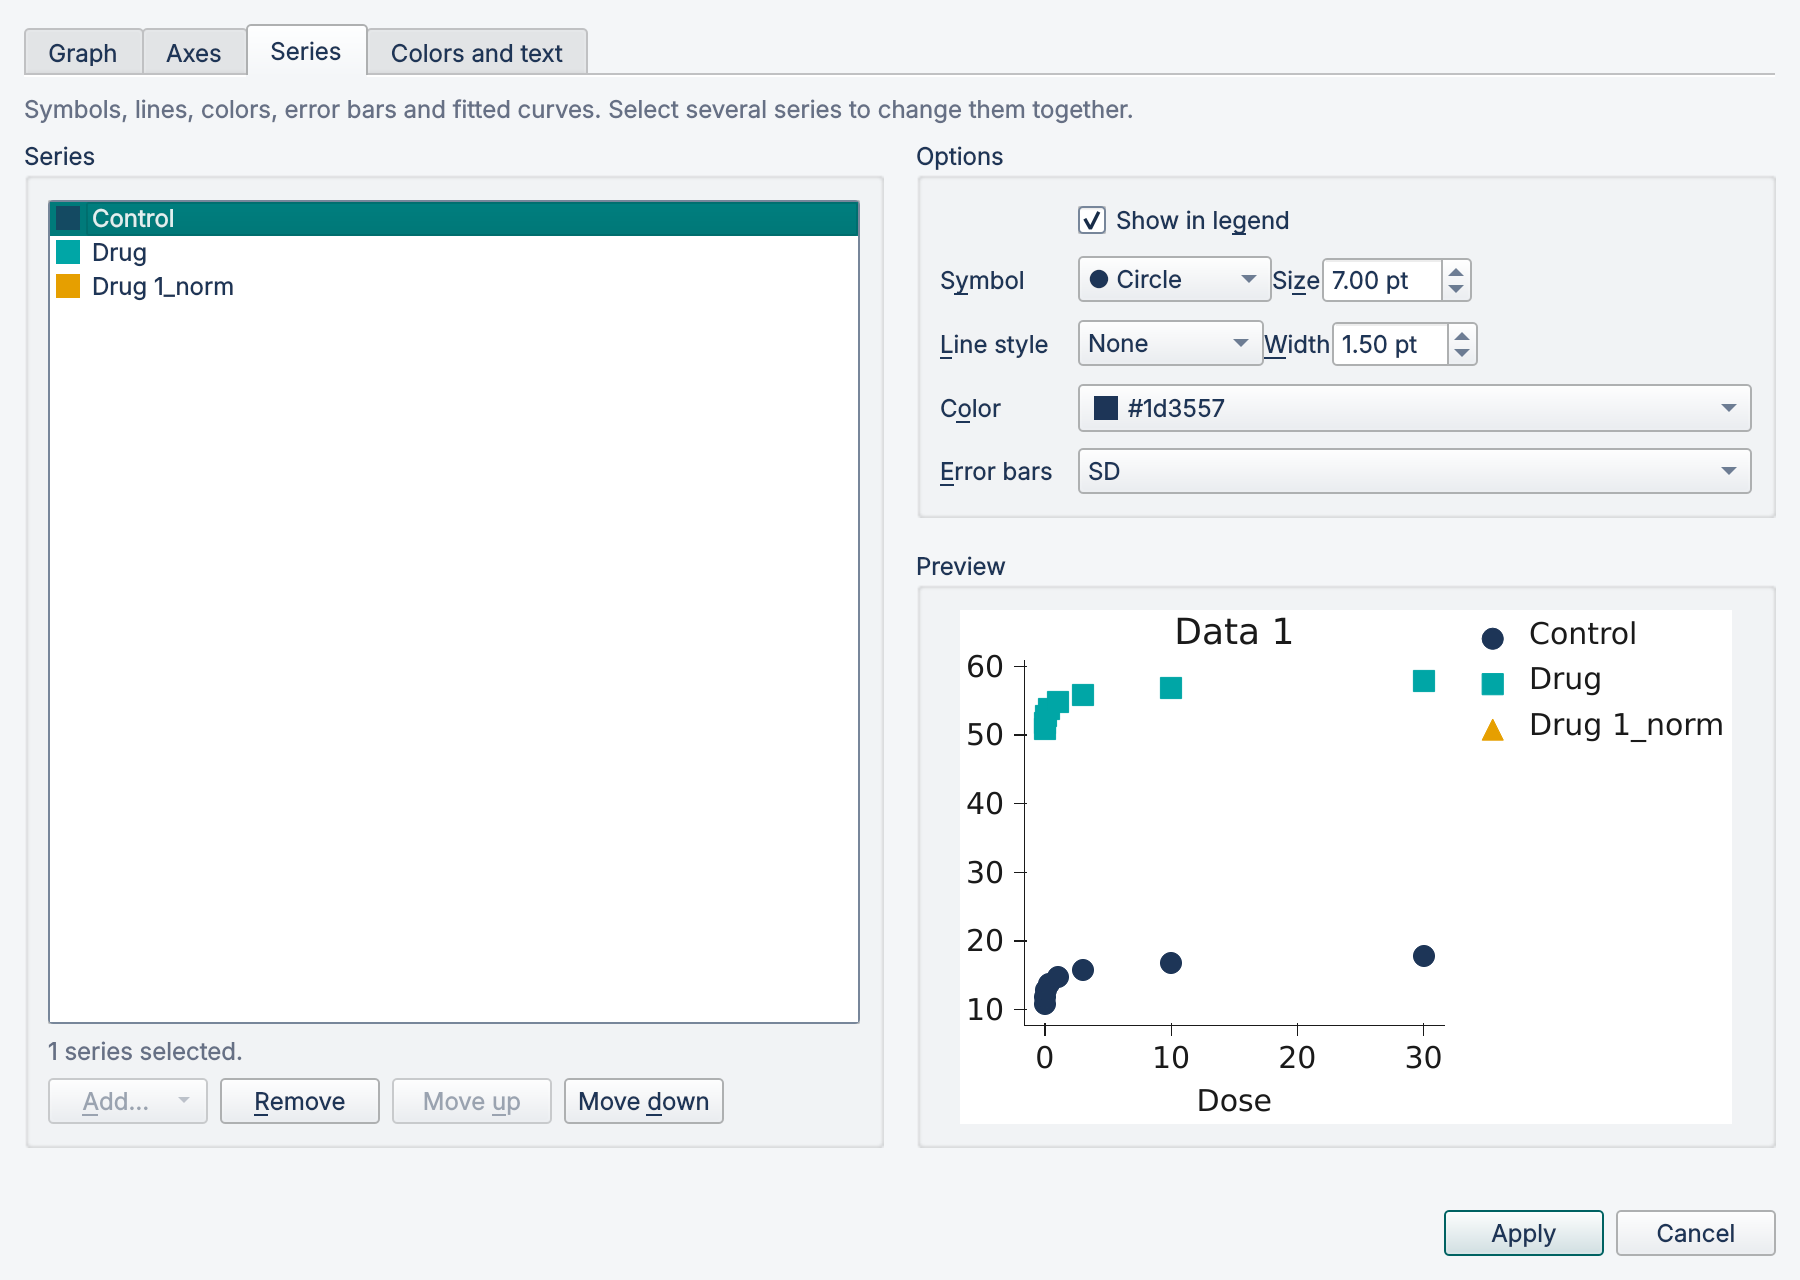
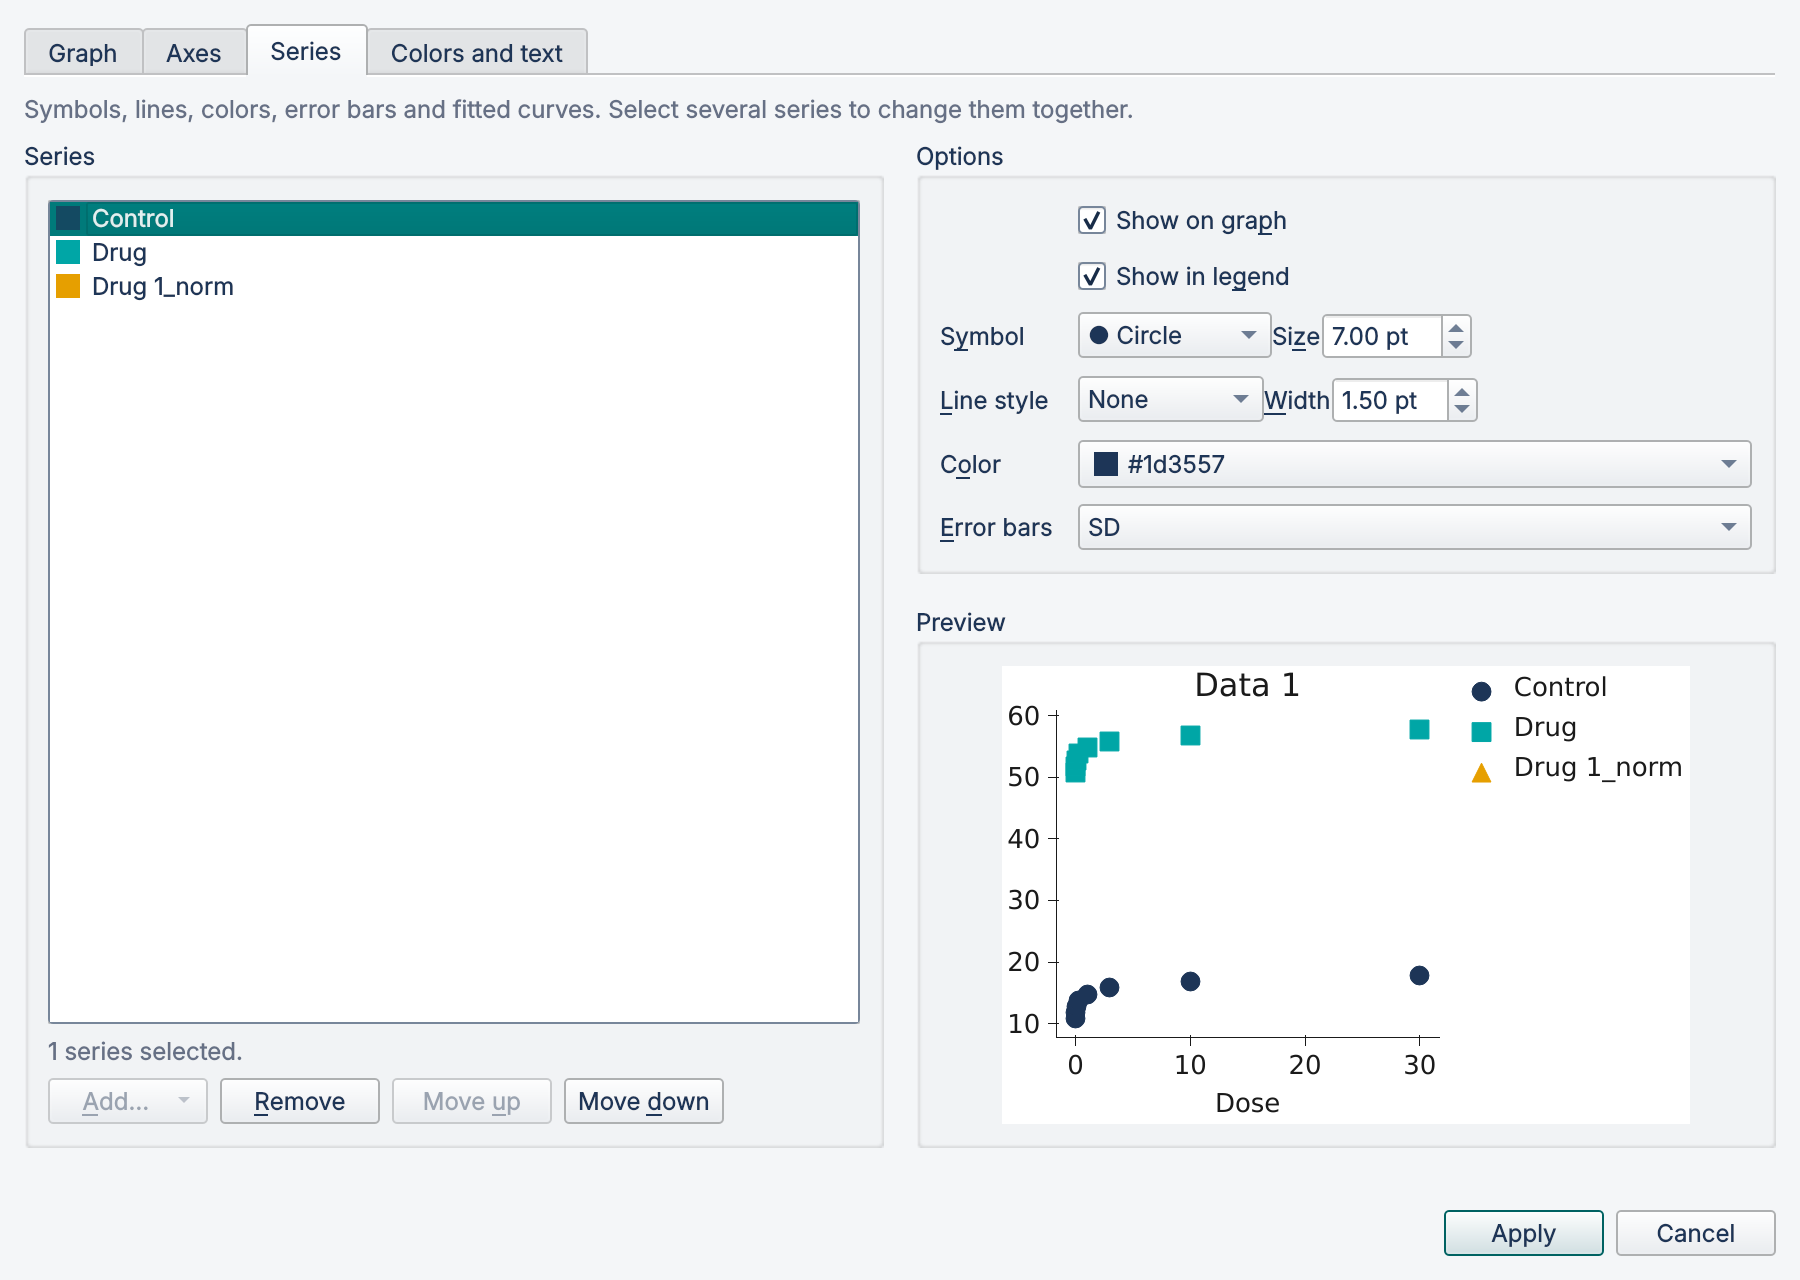
Format dialog: Show on graph, the keyboard way to hide a series
Hiding a series of an XY or survival graph was a legend click only. The
Series section now has Show on graph, which makes the same change as
the click and shows Mixed for a selection of shown and hidden series.

Claude-Session: https://claude.ai/code/session_01CFpmBV5QWJY4esQ1bkC35f

diff --git a/src/curvis/ui/format_dialog.py b/src/curvis/ui/format_dialog.py
@@ -648,6 +648,12 @@ class FormatDialog(QDialog):
         layout = QVBoxLayout(page)
         layout.setContentsMargins(0, 0, 0, 0)
         form = form_layout()
+        self.shown = QCheckBox("Show on gra&ph")
+        self.shown.setToolTip("Same as clicking the series in the legend")
+        # hiding a series is a legend click on XY and survival graphs; this is the same
+        # for the keyboard
+        self.shown.setVisible(self.original.family in (ChartFamily.XY, ChartFamily.SURVIVAL))
+        form.addRow("", self.shown)
         self.in_legend = QCheckBox("Show in le&gend")
         form.addRow("", self.in_legend)
         symbol_row = QHBoxLayout()
@@ -677,6 +683,7 @@ class FormatDialog(QDialog):
         layout.addLayout(form)
         self.series_note = secondary_label()
         layout.addWidget(self.series_note)
+        self.shown.clicked.connect(lambda on: self._edit_series(visible=bool(on)))
         self.in_legend.clicked.connect(lambda on: self._edit_series(in_legend=bool(on)))
         self.symbol.activated.connect(lambda _i: self._edit_series(symbol=self.symbol.value()))
         self.symbol_size.valueChanged.connect(self._on_size_value)
@@ -798,6 +805,7 @@ class FormatDialog(QDialog):
                 self.remove_button,
                 self.up_button,
                 self.down_button,
+                self.shown,
                 self.in_legend,
                 self.symbol,
                 self.symbol_size,
@@ -971,6 +979,7 @@ class FormatDialog(QDialog):
         picked = " and ".join(p for p in parts if p)
         self.selection_note.setText(f"{picked} selected." if picked else "No series selected.")
         widgets: list[QWidget] = [
+            self.shown,
             self.in_legend,
             self.symbol,
             self.symbol_size,
@@ -991,16 +1000,21 @@ class FormatDialog(QDialog):
             values = {get(s) for s in styles}
             return next(iter(values)), len(values) > 1
 
-        legend, mixed = common(lambda s: s.in_legend)
-        with QSignalBlocker(self.in_legend):
-            self.in_legend.setTristate(mixed)
-            self.in_legend.setCheckState(
-                Qt.CheckState.PartiallyChecked
-                if mixed
-                else Qt.CheckState.Checked
-                if legend
-                else Qt.CheckState.Unchecked
-            )
+        checks: tuple[tuple[QCheckBox, Callable[[SeriesSpec], Any]], ...] = (
+            (self.shown, lambda s: s.visible),
+            (self.in_legend, lambda s: s.in_legend),
+        )
+        for check, get in checks:
+            on, mixed = common(get)
+            with QSignalBlocker(check):
+                check.setTristate(mixed)
+                check.setCheckState(
+                    Qt.CheckState.PartiallyChecked
+                    if mixed
+                    else Qt.CheckState.Checked
+                    if on
+                    else Qt.CheckState.Unchecked
+                )
         value, mixed = common(lambda s: s.symbol)
         self.symbol.set_value(value, mixed=mixed)
         value, mixed = common(lambda s: s.line_style)

diff --git a/tests/ui/test_format_dialog.py b/tests/ui/test_format_dialog.py
@@ -172,6 +172,30 @@ def test_series_color_and_legend(qtbot: QtBot, context: Context, monkeypatch) ->
     assert dialog.series_list.item(0).text() == "Control"
 
 
+def test_show_on_graph_hides_a_series_like_a_legend_click(qtbot: QtBot, context: Context) -> None:
+    """The keyboard way to hide a series: the same change as clicking its legend entry."""
+    dialog, _doc = open_dialog(qtbot, context)
+    dialog.set_section(SERIES)
+    first, second = (s.source for s in dialog.spec.series[:2])
+    assert dialog.shown.isVisibleTo(dialog) and dialog.shown.isChecked()
+    dialog.select_series([first])
+    dialog.shown.click()
+    assert dialog.spec == dialog.original.with_series_visible(first, False)
+    dialog.select_series([first, second])
+    assert dialog.shown.checkState() is Qt.CheckState.PartiallyChecked
+    dialog.select_series([first])
+    dialog.shown.click()
+    assert dialog.spec.series_for(first).visible  # type: ignore[union-attr]
+
+
+def test_show_on_graph_is_only_for_graphs_with_a_clickable_legend(
+    qtbot: QtBot, context: Context
+) -> None:
+    dialog, _doc = open_dialog(qtbot, context, "bar")
+    dialog.set_section(SERIES)
+    assert not dialog.shown.isVisibleTo(dialog)
+
+
 def test_add_remove_and_reorder_series(qtbot: QtBot, context: Context) -> None:
     dialog, _doc = open_dialog(qtbot, context)
     dialog.set_section(SERIES)

diff --git a/docs/user-guide/graphs.md b/docs/user-guide/graphs.md
@@ -19,7 +19,8 @@ and exports the graph shown. Deleting a graph asks first; Undo brings it back.
 
 ![The Graph panel with a dose-response curve](images/graph-panel.png)
 
-On XY and survival graphs, click an entry in the legend to hide or show that series.
+On XY and survival graphs, click an entry in the legend to hide or show that series. From
+the keyboard, use **Show on graph** in the Series section of the Format dialog.
 
 A curve fit is drawn over the XY graphs of its table. Deleting the fit also removes its
 curves from the graphs.
@@ -46,7 +47,8 @@ they do not fit side by side).
 
 ![Format graph: the Axes section](images/format-axes.png)
 
-**Series**: for each series, its symbol, symbol size, line style, line width, color,
+**Series**: for each series, whether it is shown on the graph (XY and survival graphs),
+its symbol, symbol size, line style, line width, color,
 error bars and whether it is listed in the legend. Select several series to change them
 together. Series can be added, removed and reordered; fitted curves are listed with the
 series and can be removed.
